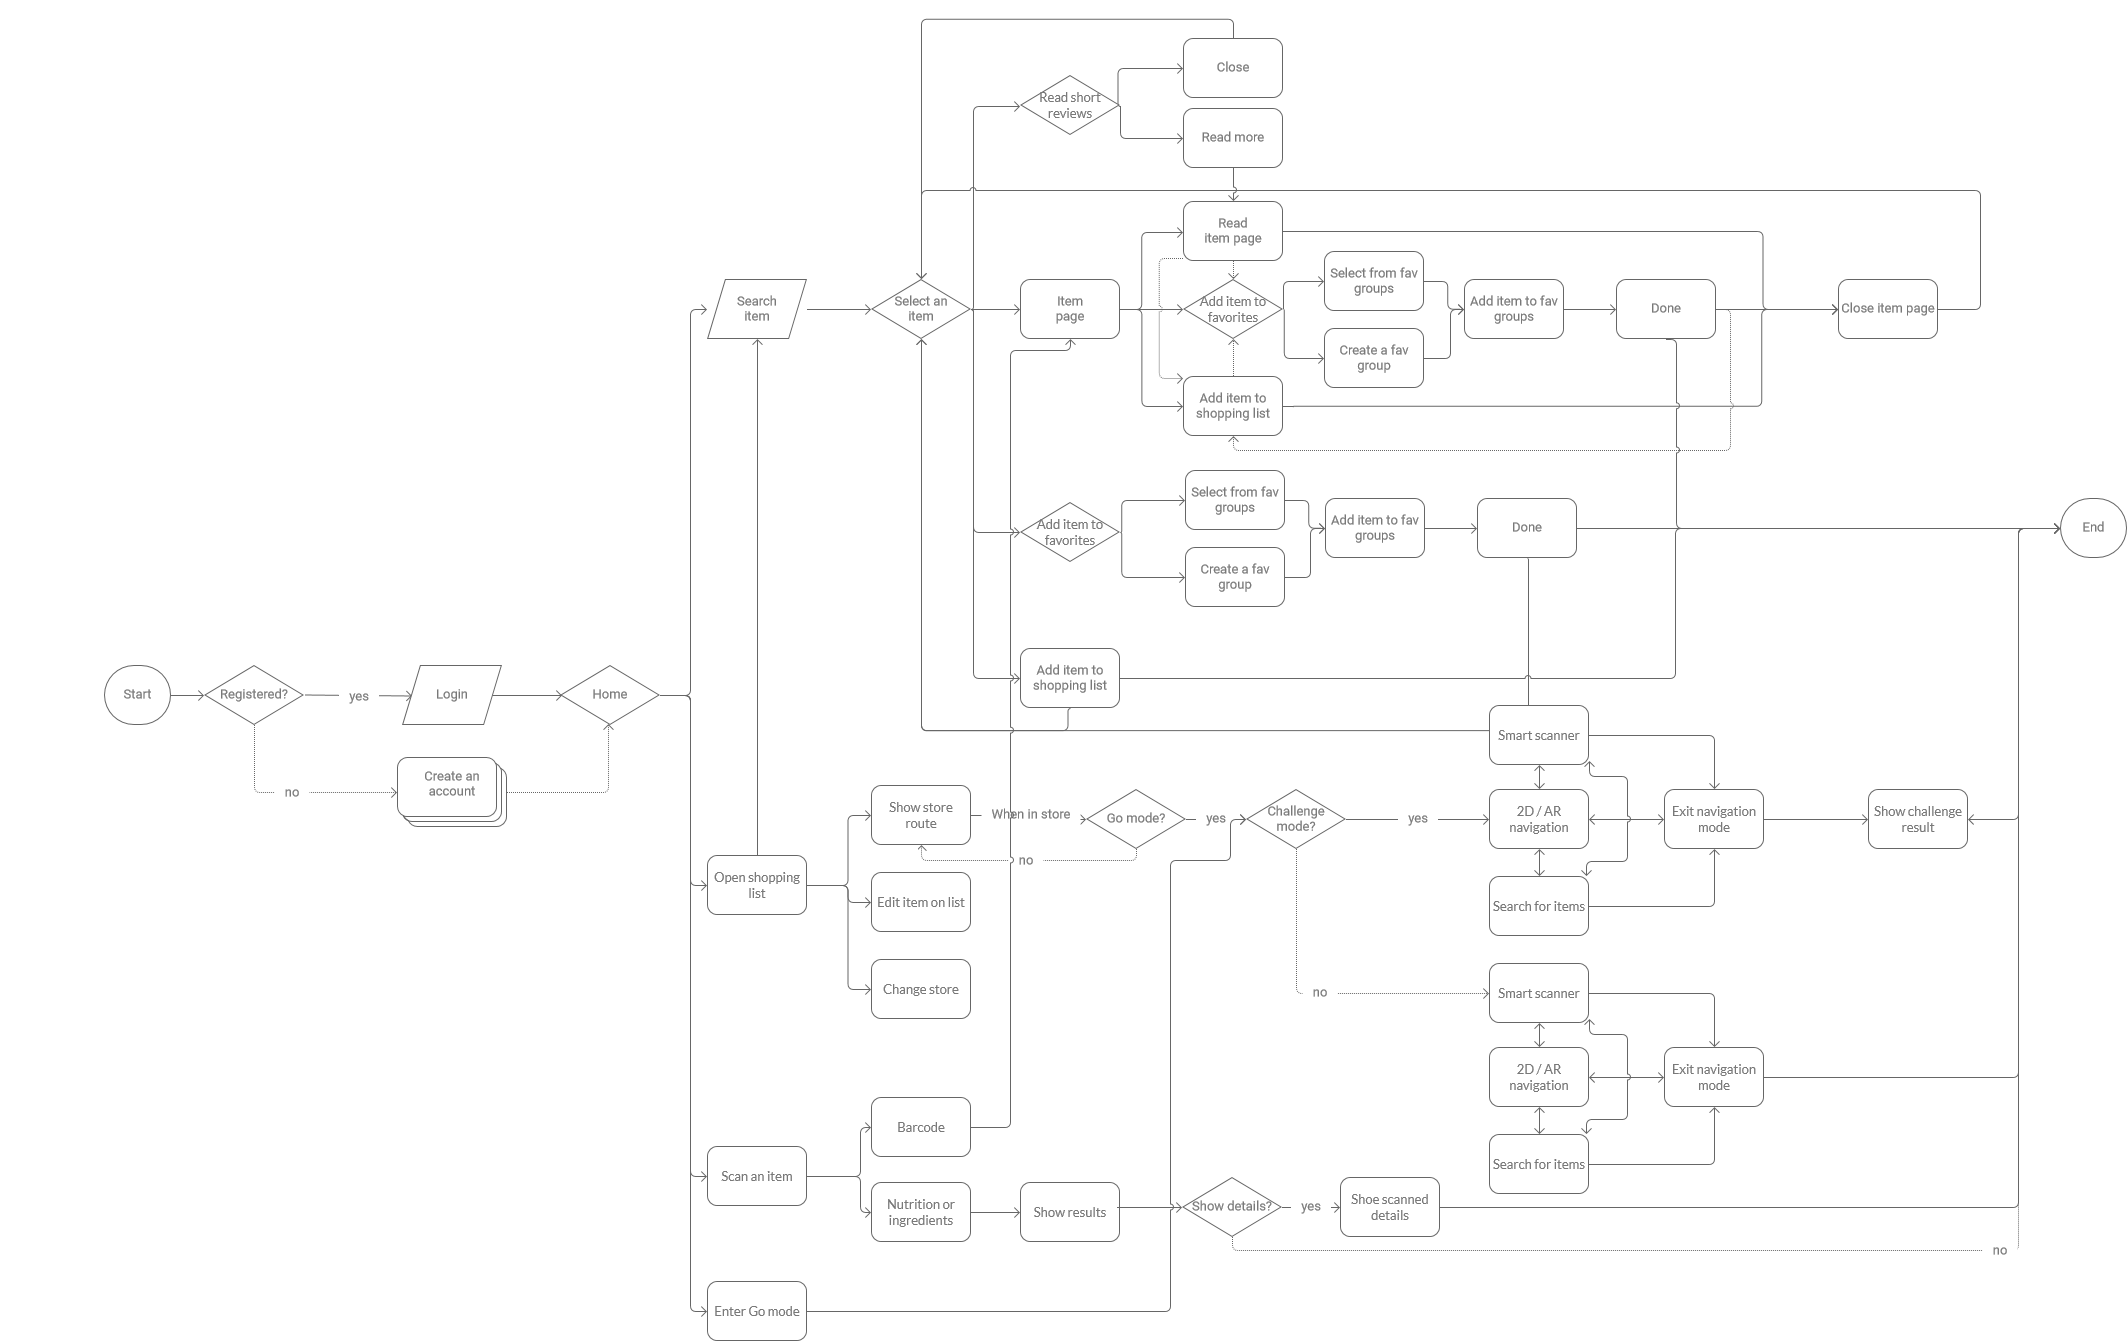
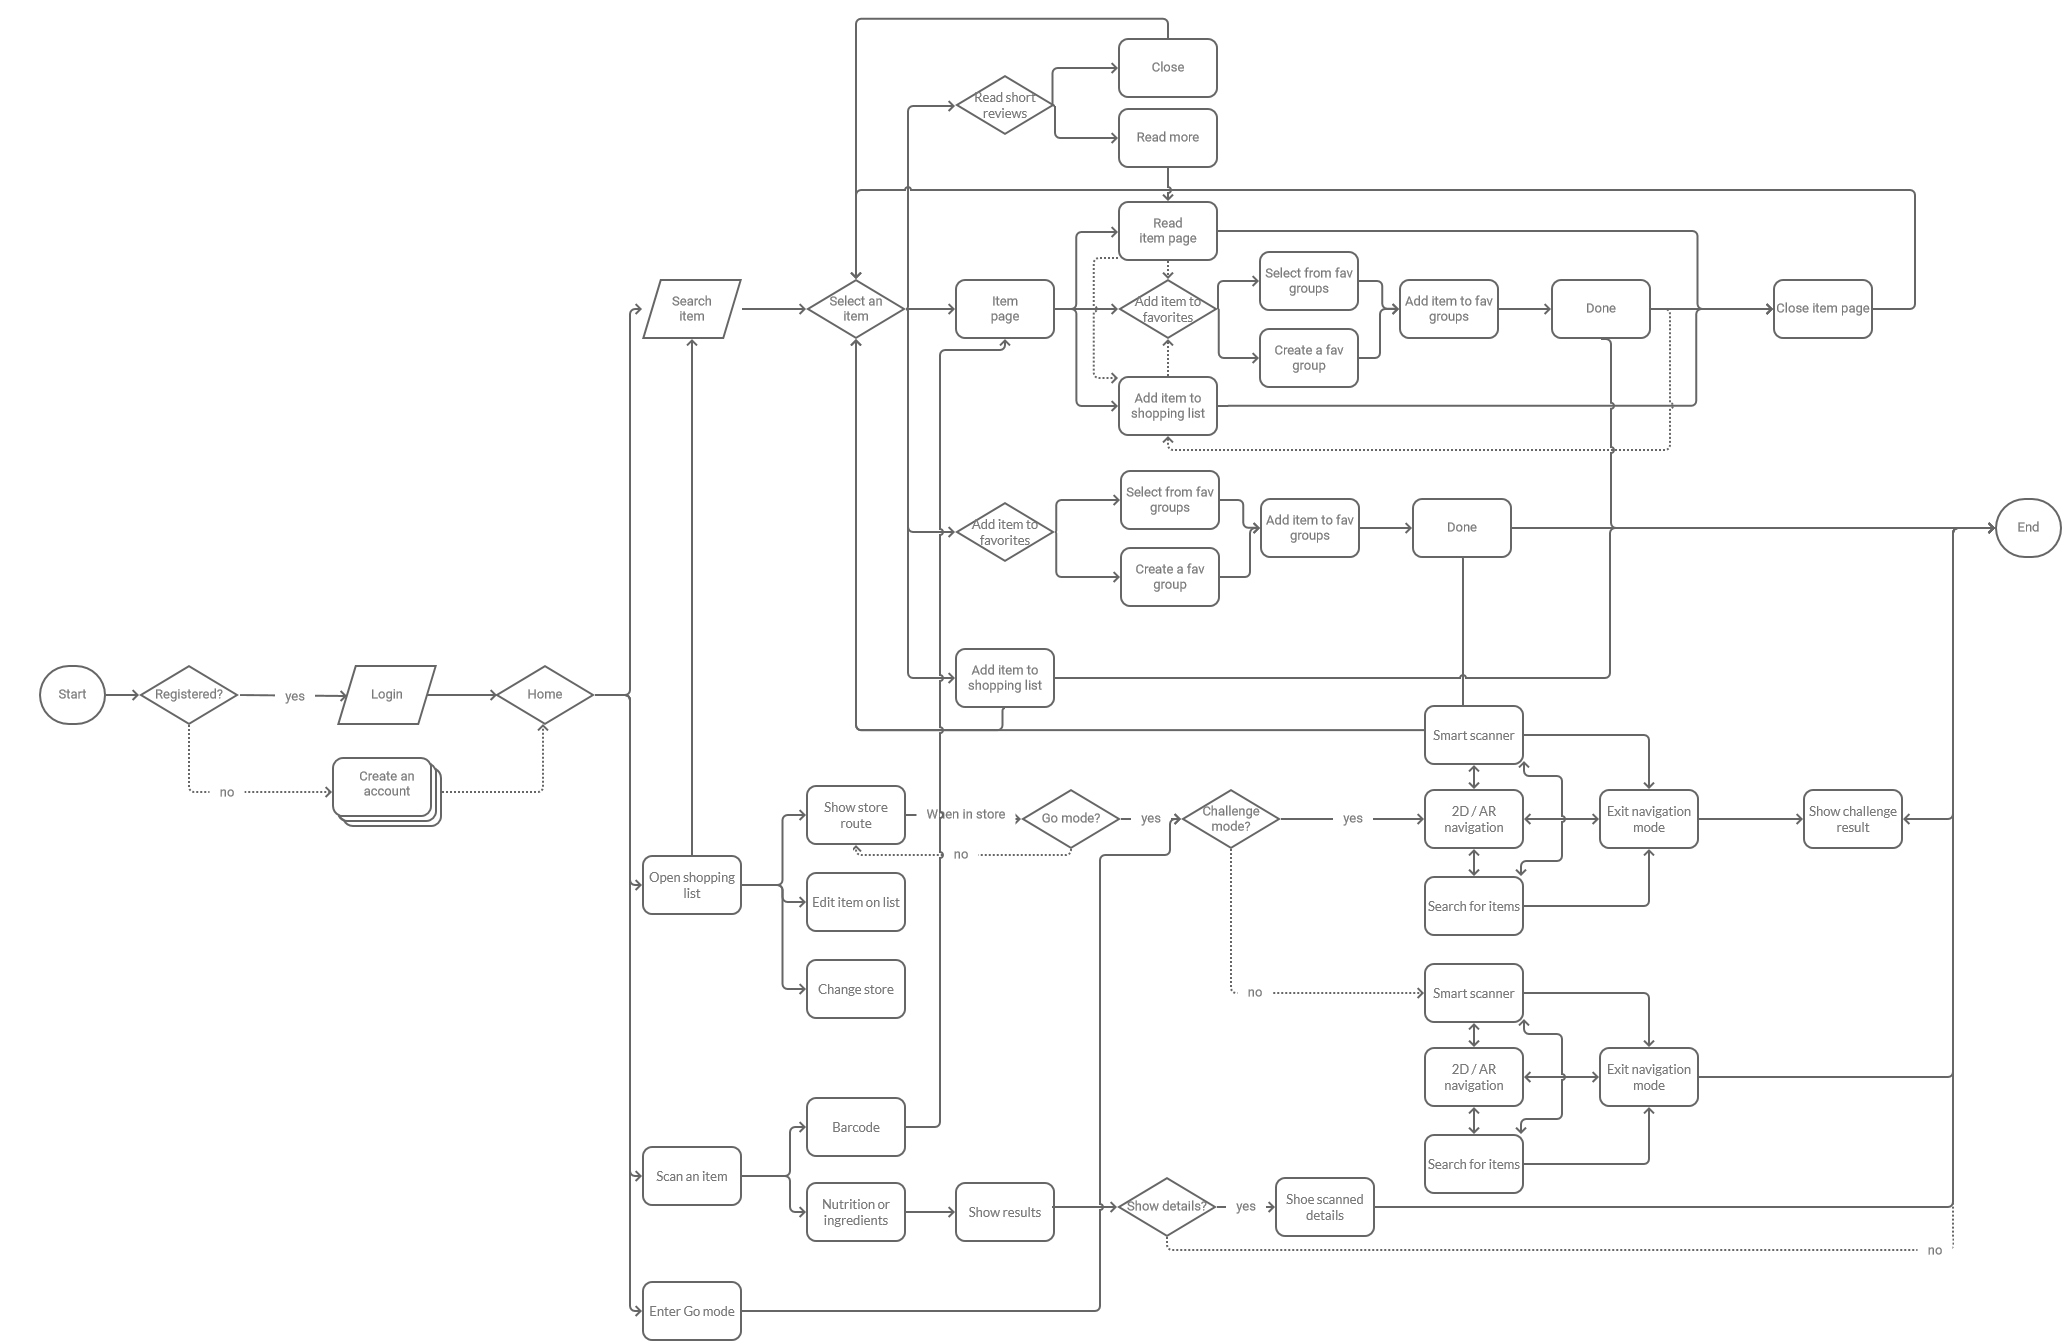
update flow chart

diff --git a/groGo.html b/groGo.html
@@ -256,22 +256,29 @@ For the <b>individual final project of the course Interaction Design</b>, I aime
 
       <div class = "flex-row">
         <button class = "project-step-btn" id="design-process-btn-1">Brainstorming</button>
-        <button class = "project-step-btn" id="design-process-btn-2">User interviews</button>
-        <button class = "project-step-btn" id="design-process-btn-3">Competitive Analysis</button>
-        <button class = "project-step-btn" id="design-process-btn-4">Personas</button>
+        <button class = "project-step-btn" id="design-process-btn-2">Usage Flow</button>
+        <button class = "project-step-btn" id="design-process-btn-3">Paper Prototype</button>
+        <button class = "project-step-btn" id="design-process-btn-4">Digital Iterations</button>
       </div>
 
-
-      <h3>1. Brainstorming</h3><br>
-      <p>Before deciding on designing a mobile app, I started to brainstorm <b>as many potential solutions as possible</b>, no matter whether the solution already exists on market or not. For example, one potential solution is pickup service, where users can select desired items prior to their shopping trips and pick up groceries once they arrive. This solution balances users' need for saving time and having fresher food, but the incurred service fee may not save shoppers money. Some other brainstormed solutions include <b>hired shopper service, smart shopping cart, digital shelves, and interactive infomation wall at store</b>. <br><br>
-      In the end, I have considered user needs and contraints, and opted for designing 'groGo' a mobile app that serves as a one-stop soltution for in-store shoppers.</p><br><br>
-      <p>The </p>
-
-      <h3>2. Scenarios</h3><br>
-      <p>For each persona, I have developed a scenario describing how the persona may use 'groGo' to complete their tasks. You can read my scenarios <a href = "imgs/grogo/grogo-scenario.pdf" target = "_blank">here.</a> </p><br>
-      <h3>3. Story Maps</h3><br>
-      <p>From the developed scenarios, I then further laid out story maps for each persona, and then created a common story map which represents the most important tasks using the app.</p>
-      <img src = "imgs/grogo/storymap.jpg" alt = "story maps"> <br><br>
+      <div class = "project-step-row" id="design-process-row-1">
+        <h3>1. Brainstorming</h3><br>
+        <p>Before deciding on designing a mobile app, I started to brainstorm <b>as many potential solutions as possible</b>, no matter whether the solution already exists on market or not. For example, one potential solution is pickup service, where users can select desired items prior to their shopping trips and pick up groceries once they arrive. This solution balances users' need for saving time and having fresher food, but the incurred service fee may not save shoppers money. Some other brainstormed solutions include <b>hired shopper service, smart shopping cart, digital shelves, and interactive infomation wall at store</b>. <br><br>
+        In the end, I have considered user needs and contraints, and opted for designing 'groGo'-- a mobile app that serves as a one-stop soltution for in-store shoppers.</p><br><br>
+        <p>I then utilized <b>storyboards</b> to gain better knowledge of usage scenarios for each possible feature on the app.</p><br>
+        <div class ="flex-row"><img alt = "story board" src = "imgs/grogo/storyboard.gif">
+        </div>
+        <br><br>
+        <p>In addition, I developed a series of <b>storymaps</b> for each persona. From these maps, I am able to distill a <b>common path</b>, which allows me to further developer more granular architecture of the mobile appplication.</p><br>
+        <div class ="flex-row"><img alt = "story map" src = "imgs/grogo/storymap.jpg">
+        </div>
+      </div>
+      <div class = "project-step-row" id="design-process-row-2">
+        <h3>2. Usage Flow</h3><br>
+        <p>With the <b>story maps</b> as guidance, I was then able to systemize the features in the form of an <b>information architecture flow chart</b>. With such visualization as guidance, the scope of the product is made much clearer. </p>
+        <div class ="flex-row"><img src = "imgs/grogo/flow_chart.png" alt = "flow chart">
+        </div><br><br>
+      </div>
       <h3>4. Paper Prototype</h3><br>
       <img src = "imgs/grogo/paper.gif" alt = "paper prototype"/>
       <p>After constructing the story maps, I then moved on to the prototyping stage. Beofre delving into digital prototype, a paper-based prototype model was first created to allow quick user testing and conceptualization. <br><br>

diff --git a/scripts/main.js b/scripts/main.js
@@ -134,6 +134,69 @@ $("#ux-research-btn-4").click(function(){
 });
 
 
+/*Design process step switches*/
+$("#design-process-btn-1").css({'color':'white', 'background': 'rgb(110,110,110)'
+});
+
+$("#design-process-btn-1").click(function(){
+  $(this).css({'color':'white', 'background': 'rgb(110,110,110)'
+  });
+  $("#design-process-btn-2, #design-process-btn-3, #design-process-btn-4").each(function(){
+    $(this).css({'color':'rgb(110,110,110)', 'background': 'white'
+      });
+  });
+
+  $('#design-process-row-1').show(1000);
+  $('#design-process-row-2, #design-process-row-3, #design-process-row-4').each(function(){
+    $(this).hide(1000);
+      });
+});
+
+$("#design-process-btn-2").click(function(){
+  $(this).css({'color':'white', 'background': 'rgb(110,110,110)'
+  });
+  $("#design-process-btn-1, #design-process-btn-3, #design-process-btn-4").each(function(){
+    $(this).css({'color':'rgb(110,110,110)', 'background': 'white'
+      });
+  });
+
+  $('#design-process-row-2').show(1000);
+  $('#design-process-row-1, #design-process-row-3, #design-process-row-4').each(function(){
+    $(this).hide(1000);
+      });
+});
+
+$("#design-process-btn-3").click(function(){
+  $(this).css({'color':'white', 'background': 'rgb(110,110,110)'
+  });
+  $("#design-process-btn-1, #design-process-btn-2, #design-process-btn-4").each(function(){
+    $(this).css({'color':'rgb(110,110,110)', 'background': 'white'
+      });
+  });
+
+  $('#design-process-row-3').show(1000);
+  $('#design-process-row-1, #design-process-row-2, #design-process-row-4').each(function(){
+    $(this).hide(1000);
+      });
+});
+
+$("#design-process-btn-4").click(function(){
+  $(this).css({'color':'white', 'background': 'rgb(110,110,110)'
+  });
+  $("#design-process-btn-2, #design-process-btn-3, #design-process-btn-1").each(function(){
+    $(this).css({'color':'rgb(110,110,110)', 'background': 'white'
+      });
+  });
+
+  $('#design-process-row-4').show(1000);
+  $('#design-process-row-2, #design-process-row-3, #design-process-row-1').each(function(){
+    $(this).hide(1000);
+      });
+});
+
+
+
+
 
 
 });

diff --git a/css/style.css b/css/style.css
@@ -570,7 +570,10 @@ main p{
   margin-bottom: 40px;
 }
 
-#ux-research-row-2, #ux-research-row-3, #ux-research-row-4, #ux-research-row-5{
+#ux-research-row-2, #ux-research-row-3, #ux-research-row-4{
+  display: none;
+}
+#design-process-row-2, #design-process-row-3, #design-process-row-4{
   display: none;
 }
 
